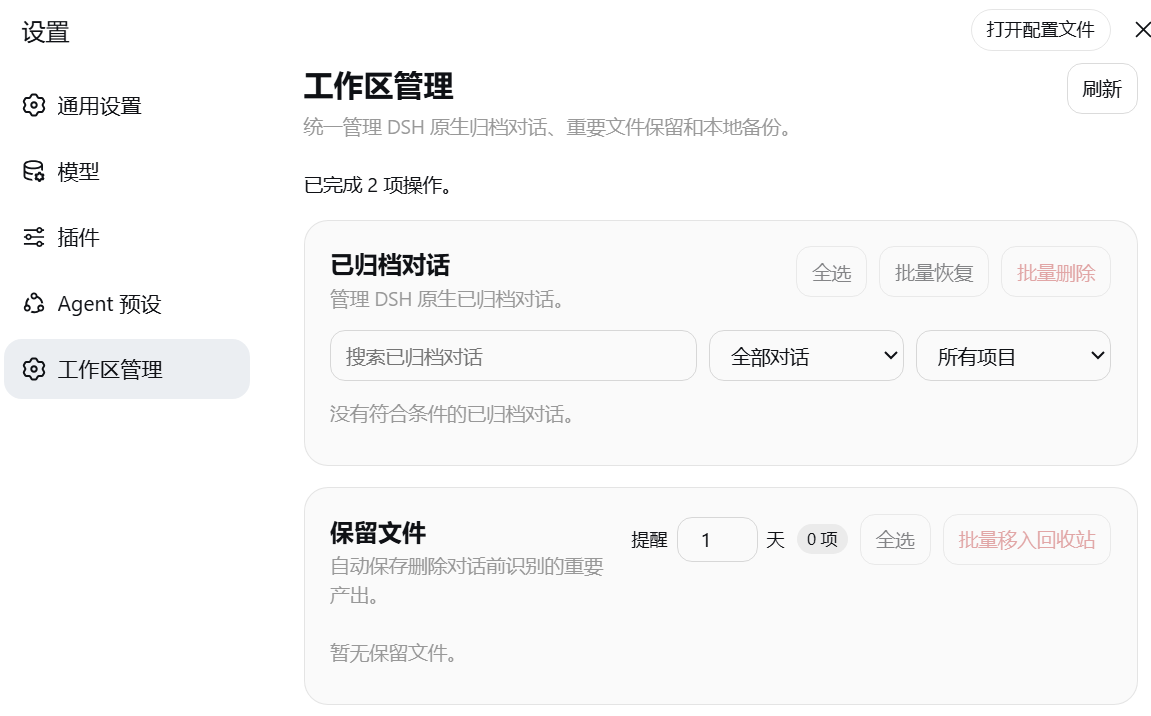
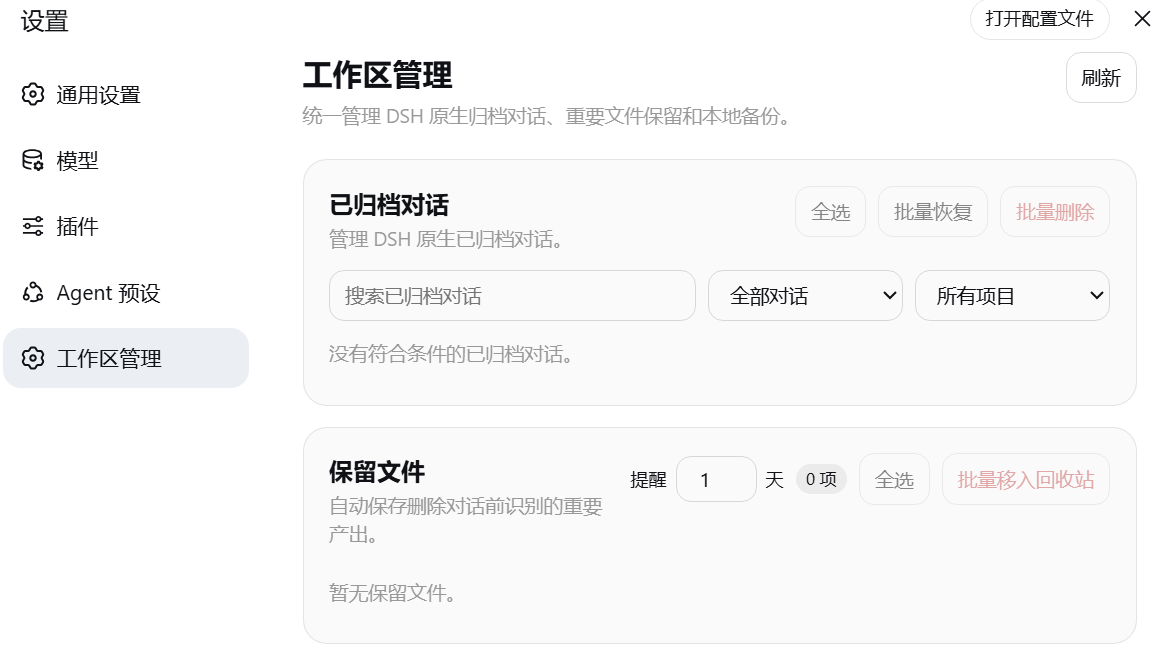
docs: refine bilingual README and replace screenshots with original PNGs

diff --git a/README.md b/README.md
@@ -1,107 +1,82 @@
 # DSH Workspace Manager
 
-[![Release](https://img.shields.io/github/v/release/yxv1203-collab/dsh-conversation-archive?display_name=tag)](https://github.com/yxv1203-collab/dsh-conversation-archive/releases/latest)
-![Platform](https://img.shields.io/badge/platform-Windows%2010%20%7C%2011-0078D4)
-[![License](https://img.shields.io/badge/license-MIT-2ea44f)](LICENSE)
+[English](README.md) · [简体中文](README.zh-CN.md) · [Releases](https://github.com/yxv1203-collab/dsh-conversation-archive/releases) · [Issues](https://github.com/yxv1203-collab/dsh-conversation-archive/issues)
 
-[English](README.md) · [简体中文](README.zh-CN.md)
-
-Archive management, important-file retention, and local backups for DeepSeek Harness (DSH), integrated into its settings interface.
+Manage archived conversations, retain important files, and back up session data from the DeepSeek Harness settings interface.
 
 ## Features
 
-- **Archived conversations:** search, filter, unarchive, and delete individual or multiple archived conversations. DSH remains the source of archive state.
-- **Important-file retention:** review candidate workspace outputs with the configured DSH model, preserve selected files before deletion, and verify copies with content hashes. The shared library supports deduplication, restore, batch removal, and in-app reminders.
-- **Local backups:** create ZIP backups manually, on a schedule, or before a clean shutdown. Backups include manifests and hashes; restoration uses an empty destination without overwriting files. Automatic backup is off by default; the default retention count is five verified backups.
-- **Cross-drive workspaces:** use DSH-registered workspace folders on different drives or in independent project directories. Historical session mappings are filled in automatically from DSH metadata.
+| Area | Capabilities |
+| --- | --- |
+| Archive management | Search and filter by conversation type or project; unarchive or delete conversations individually or in batches. |
+| File retention | Review candidate outputs with the DSH model before deletion; preserve verified copies in a shared library with deduplication, source tracking, restore, batch removal, and reminders. |
+| Local backups | Manual, scheduled, and shutdown ZIP backups; local or network destinations; manifest and hash verification; configurable retention and restore to an empty folder. |
+| Workspace support | Registered folders across Windows drives and independent projects; automatic registration of historical sessions; a stable shared file-library location across restarts. |
+| Settings and diagnostics | Persistent preferences, in-app reminders, compatible-release notifications, and runtime diagnostics. Updates are not installed automatically. |
 
-## Screenshots
+## Preview
 
 ![Archived conversations and retained files](docs/images/workspace-manager-overview.png)
 
-![Local backup and plugin settings](docs/images/backup-and-settings.png)
+<details>
+<summary>Backup and settings</summary>
 
-## Requirements
+![Backup and settings](docs/images/backup-and-settings.png)
 
-| Component | Requirement |
-| --- | --- |
-| Operating system | Windows 10 or 11 |
-| DSH | Tested with `0.1.1-rc.2`; other versions are not yet verified |
-| PowerShell | 5.1 or later |
-| Node.js | 20 or later; also meet your DSH installation's requirements |
-| Workspace | A readable and writable folder, not a drive or share root |
+</details>
 
 ## Installation
 
-### From GitHub
+Requires Windows 10 or 11, PowerShell 5.1+, and Node.js 20+ or the version required by DSH. Tested with DSH `0.1.1-rc.2`; other DSH versions are not yet verified.
 
 ```powershell
 dsh plugin --profile web add github:yxv1203-collab/dsh-conversation-archive#v1.0.0
 ```
 
-Restart DSH, then open **Settings → Workspace Manager**.
+Restart DSH and open Settings → Workspace Manager. No workspace reorganization is required.
 
-### From a release package
+<details>
+<summary>Offline installation and removal</summary>
 
-Download `dsh-conversation-archive-1.0.0.tgz` and its `.sha256` file from [GitHub Releases](https://github.com/yxv1203-collab/dsh-conversation-archive/releases/tag/v1.0.0).
+Download the `.tgz` package and matching `.sha256` file from [Releases](https://github.com/yxv1203-collab/dsh-conversation-archive/releases/tag/v1.0.0). Compare the checksums before installing.
 
 ```powershell
 Get-FileHash .\dsh-conversation-archive-1.0.0.tgz -Algorithm SHA256
 Get-Content .\dsh-conversation-archive-1.0.0.tgz.sha256
-```
-
-Confirm the hashes match, then install:
-
-```powershell
 dsh plugin --profile web add .\dsh-conversation-archive-1.0.0.tgz
 ```
 
-For an earlier build with the same version number, download the current package and verify its checksum, remove the installed plugin, then install the downloaded package. The version number alone does not identify the revised build.
-
-## Deletion and data protection
-
-Unarchiving and deleting are separate operations. Deletion checks session ownership and paths, scans eligible outputs, asks the configured DSH model to assess their content, and verifies retained copies before recycling session data. Candidate file content may be sent to the model provider configured in DSH.
-
-Original project folders and source files are not deletion targets. Review, copy, integrity, or path-validation failures stop the protected deletion workflow. AI retention is selective and does not replace a full project backup.
-
-On DSH `0.1.1-rc.2`, session data is recycled while its archive marker remains in place. The next clean startup removes workspace references and finalizes deletion, preventing the conversation from reappearing in the active list.
-
-## Workspaces and metadata
-
-**Metadata not registered** means a native archived session has no valid plugin workspace mapping. Startup and archive synchronization backfill mappings from DSH session metadata. If the warning remains, check workspace access and session metadata; complete workspace-output protection and backups require a valid mapping.
-
-Native session paths are independent of the shared storage root. The plugin can infer that root from a canonical daily workspace on first use and records it for subsequent starts. Existing mappings and retained files are not automatically relocated. Explicit `harnessRoot`, `DCA_HARNESS_ROOT`, or `DSH_HARNESS_ROOT` settings take precedence.
-
-Restoring a retained file to its original location requires a recognized DSH workspace. Otherwise, select an alternate destination. Existing files are never overwritten, and paths that escape through junctions or symbolic links are rejected.
-
-## Backup scope
-
-Backups cover registered DSH session data and retained files, not entire source repositories. Targets may be local folders or supported network paths. Old backups are recycled only after the newest backup passes verification. Network availability, permissions, and Recycle Bin support depend on the destination.
-
-Cloud accounts are not connected directly. External sync software may synchronize a backup folder. Reminders appear inside DSH, not as Windows notifications.
-
-## Removal
+To remove:
 
 ```powershell
 dsh plugin --profile web remove dsh-conversation-archive
 ```
 
-Restart DSH after removal. Retained files and backups are preserved.
+Restart DSH after installation or removal. Retained files and backups are preserved. To replace an earlier build with the same version number, remove it and install the current release package after verifying its checksum.
 
-## Development
+</details>
 
-With a compatible DSH installation available locally:
+## Usage and data protection
 
-```powershell
-npm test
-npm pack --dry-run --json
-npm pack
-```
+- Archive state comes from DSH. The plugin manages already-archived conversations without creating a separate project structure.
+- Deletion recycles the selected session's DSH data, not the original project folder or source files. File review and copy verification must succeed before protected deletion proceeds. On DSH `0.1.1-rc.2`, workspace-reference cleanup completes at the next normal startup.
+- File review may send candidate content to the model provider configured in DSH. Retention is selective and does not replace a full project backup.
+- Backups cover registered session data and retained files, not entire source repositories. Automatic backup is off by default; five verified backups are retained by default. Older backups are recycled only after a new backup is verified.
+- Use accessible workspace subfolders, not drive or share roots. Restore never overwrites existing files. Network destinations require appropriate permissions and Recycle Bin support; cloud accounts are not connected directly.
 
-Tests cover archive synchronization, historical metadata backfill, cross-drive path rules, retention, backups, deletion recovery, and release integrity.
+<details>
+<summary>Metadata not registered</summary>
 
-## Support and license
+The session does not yet have a valid workspace mapping. Startup and archive synchronization backfill mappings from DSH metadata. If the message persists, check workspace access and session metadata before relying on output protection or complete backups.
 
-Report issues through [GitHub Issues](https://github.com/yxv1203-collab/dsh-conversation-archive/issues) or contact **yxv1203@gmail.com**. Include DSH and plugin versions, reproduction steps, and sanitized diagnostics.
+Restoring a retained file to its original location requires a recognized DSH workspace; otherwise, choose another destination.
 
-Licensed under [MIT](LICENSE).
+</details>
+
+## Contributing
+
+Use [Issues](https://github.com/yxv1203-collab/dsh-conversation-archive/issues) for bug reports and feature requests, or contact [yxv1203@gmail.com](mailto:yxv1203@gmail.com). Include the DSH version, reproduction steps, and sanitized diagnostics. Run `npm test` with a compatible local DSH installation before submitting code changes.
+
+## License
+
+[MIT](LICENSE)

diff --git a/README.zh-CN.md b/README.zh-CN.md
@@ -1,107 +1,82 @@
 # DSH 工作区管理
 
-[![Release](https://img.shields.io/github/v/release/yxv1203-collab/dsh-conversation-archive?display_name=tag)](https://github.com/yxv1203-collab/dsh-conversation-archive/releases/latest)
-![Platform](https://img.shields.io/badge/platform-Windows%2010%20%7C%2011-0078D4)
-[![License](https://img.shields.io/badge/license-MIT-2ea44f)](LICENSE)
+[English](README.md) · [简体中文](README.zh-CN.md) · [版本下载](https://github.com/yxv1203-collab/dsh-conversation-archive/releases) · [问题反馈](https://github.com/yxv1203-collab/dsh-conversation-archive/issues)
 
-[English](README.md) · [简体中文](README.zh-CN.md)
+在 DeepSeek Harness 设置中管理已归档对话、保留重要文件并备份会话数据。
 
-集成于 DeepSeek Harness（DSH）设置界面的归档管理、重要文件保留与本地备份插件。
+## 功能
 
-## 主要功能
+| 模块 | 功能说明 |
+| --- | --- |
+| 归档管理 | 搜索对话，按类型或项目筛选，支持单项与批量取消归档、删除。 |
+| 文件保留 | 删除前由 DSH 模型审核候选产出；校验副本后存入共享文件库，支持去重、来源记录、恢复、批量移除与提醒。 |
+| 本地备份 | 手动、定时或正常关闭前生成 ZIP；支持本地与网络目录、清单及哈希校验、保留数量设置，以及恢复到空目录。 |
+| 工作区支持 | 支持不同 Windows 磁盘和独立项目中的已登记文件夹，自动补登记历史会话，重启后保持共享文件库位置稳定。 |
+| 设置与诊断 | 保存使用偏好，提供应用内提醒、兼容版本更新提示与运行诊断，不自动安装更新。 |
 
-- **已归档对话管理：**支持搜索、筛选、取消归档、单项与批量删除，归档状态以 DSH 原生记录为准。
-- **重要文件保留：**使用 DSH 配置的模型审核工作区候选产出，在删除前保留选中文件并校验内容哈希。共享文件库支持去重、恢复、批量移除及应用内提醒。
-- **本地备份：**支持手动、定时及正常关闭前生成 ZIP 备份。备份包含文件清单与哈希，恢复到空目录，不覆盖已有文件。自动备份默认关闭，默认保留最近五份已验证备份。
-- **跨盘工作区：**支持不同磁盘上的 DSH 已登记工作区和独立项目目录，并从 DSH 元数据自动补齐历史会话映射。
-
-## 界面预览
+## 界面
 
 ![已归档对话与保留文件](docs/images/workspace-manager-overview.png)
 
+<details>
+<summary>本地备份与插件设置</summary>
+
 ![本地备份与插件设置](docs/images/backup-and-settings.png)
 
-## 环境要求
-
-| 组件 | 要求 |
-| --- | --- |
-| 操作系统 | Windows 10 或 11 |
-| DSH | 已测试 `0.1.1-rc.2`，其他版本尚未验证 |
-| PowerShell | 5.1 或更高版本 |
-| Node.js | 20 或更高版本，同时满足所安装 DSH 的要求 |
-| 工作区 | 具有读写权限的文件夹，不直接使用盘符或网络共享根目录 |
+</details>
 
 ## 安装
 
-### 从 GitHub 安装
+需要 Windows 10 或 11、PowerShell 5.1+，以及 Node.js 20+ 或 DSH 要求的更高版本。已测试 DSH `0.1.1-rc.2`，其他 DSH 版本尚未验证。
 
 ```powershell
 dsh plugin --profile web add github:yxv1203-collab/dsh-conversation-archive#v1.0.0
 ```
 
-重启 DSH，打开“设置 → 工作区管理”。
+重启 DSH，打开“设置 → 工作区管理”。无需调整现有工作区结构。
 
-### 从发布包安装
+<details>
+<summary>离线安装与卸载</summary>
 
-从 [GitHub Releases](https://github.com/yxv1203-collab/dsh-conversation-archive/releases/tag/v1.0.0) 下载 `dsh-conversation-archive-1.0.0.tgz` 及其 `.sha256` 文件。
+从 [版本下载](https://github.com/yxv1203-collab/dsh-conversation-archive/releases/tag/v1.0.0) 获取 `.tgz` 安装包及对应的 `.sha256` 文件，确认校验值一致后安装。
 
 ```powershell
 Get-FileHash .\dsh-conversation-archive-1.0.0.tgz -Algorithm SHA256
 Get-Content .\dsh-conversation-archive-1.0.0.tgz.sha256
-```
-
-确认哈希一致后安装：
-
-```powershell
 dsh plugin --profile web add .\dsh-conversation-archive-1.0.0.tgz
 ```
 
-如果已安装同版本号的早期构建，请下载当前发布包并校验，卸载已安装插件后，再安装下载的包。仅凭版本号无法区分同版本修订包。
-
-## 删除与数据保护
-
-取消归档与删除是独立操作。删除流程先校验会话归属和路径，再扫描符合条件的产出，交由 DSH 配置的模型审核内容；保留副本通过校验后，才回收会话数据。候选文件内容可能发送给 DSH 配置的模型服务商。
-
-原始项目目录和源码文件不属于删除目标。审核、复制、完整性或路径校验失败时，保护性删除流程会停止。AI 保留是选择性保护，不能替代完整项目备份。
-
-在 DSH `0.1.1-rc.2` 中，会话数据回收后暂时保留归档标记；下次正常启动时解除工作区引用并完成删除，避免对话重新出现在活动列表。
-
-## 工作区与元数据
-
-**元数据未登记**表示原生归档会话尚无有效的插件工作区映射。插件在启动和归档同步时，从 DSH 会话元数据自动回填映射。若提示持续出现，请检查工作区是否可访问、会话元数据是否可读取；完整的工作区产出保护和备份需要有效映射。
-
-原生会话路径不受共享存储根目录限制。插件首次使用时可从规范的日常工作区识别共享根目录，并记录该位置供后续启动使用。已有映射和保留文件不会自动迁移。显式设置的 `harnessRoot`、`DCA_HARNESS_ROOT` 或 `DSH_HARNESS_ROOT` 优先。
-
-恢复保留文件到原位置时，目标须属于可识别的 DSH 工作区；否则请选择其他恢复目录。恢复不会覆盖已有文件，并拒绝通过 Junction 或符号链接越界的路径。
-
-## 备份范围
-
-备份包含已登记的 DSH 会话数据和保留文件，不包含完整源码仓库。目标可选本地文件夹或受支持的网络路径；最新备份验证通过后，才会回收超出保留数量的旧备份。网络可用性、目录权限及回收站支持取决于目标位置。
-
-插件不直接连接云盘账号，可由外部同步软件同步备份文件夹。提醒仅在 DSH 内显示，不发送 Windows 系统通知。
-
-## 卸载
+卸载命令：
 
 ```powershell
 dsh plugin --profile web remove dsh-conversation-archive
 ```
 
-卸载后重启 DSH。已有保留文件和备份不会被删除。
+安装或卸载后重启 DSH。已有保留文件和备份不会被删除。如需替换同版本号的早期构建，请卸载后安装当前发布包，并核对校验值。
 
-## 开发与测试
+</details>
 
-本机安装兼容版本的 DSH 后执行：
+## 使用与数据保护
 
-```powershell
-npm test
-npm pack --dry-run --json
-npm pack
-```
+- 归档状态以 DSH 原生记录为准。插件仅管理已归档对话，不另建项目目录体系。
+- 删除仅回收所选会话的 DSH 数据，不删除原始项目目录或源码。文件审核和副本校验成功后，才继续保护性删除。在 DSH `0.1.1-rc.2` 中，工作区引用清理会在下次正常启动时完成。
+- 文件审核可能将候选内容发送给 DSH 配置的模型服务商。文件保留属于选择性保护，不能替代完整项目备份。
+- 备份范围为已登记的会话数据和保留文件，不包含完整源码仓库。自动备份默认关闭，默认保留五份已验证备份；新备份验证通过后才回收超额旧备份。
+- 工作区应使用可访问的盘内子目录，不直接使用盘符或共享根目录。恢复不覆盖已有文件。网络备份目标须具备相应权限及回收站支持；插件不直接连接云盘账号。
 
-测试覆盖归档同步、历史元数据回填、跨盘路径规则、文件保留、备份、删除恢复及发布完整性。
+<details>
+<summary>元数据未登记</summary>
 
-## 反馈与协议
+该提示表示会话尚无有效的工作区映射。插件会在启动和归档同步时，从 DSH 元数据自动回填。若提示持续出现，请先检查工作区访问权限和会话元数据，再使用产出保护或完整备份功能。
 
-通过 [GitHub Issues](https://github.com/yxv1203-collab/dsh-conversation-archive/issues) 反馈问题，或联系 **yxv1203@gmail.com**。请提供 DSH 与插件版本、复现步骤和脱敏后的诊断信息。
+恢复保留文件到原位置时，目标须属于可识别的 DSH 工作区；否则请选择其他恢复目录。
 
-本项目采用 [MIT 协议](LICENSE)。
+</details>
+
+## 参与贡献
+
+通过 [Issues](https://github.com/yxv1203-collab/dsh-conversation-archive/issues) 提交问题或功能建议，也可联系 [yxv1203@gmail.com](mailto:yxv1203@gmail.com)。请附上 DSH 版本、复现步骤和脱敏诊断信息。提交代码前，在本机安装兼容版本的 DSH 并运行 `npm test`。
+
+## 开源协议
+
+[MIT](LICENSE)
